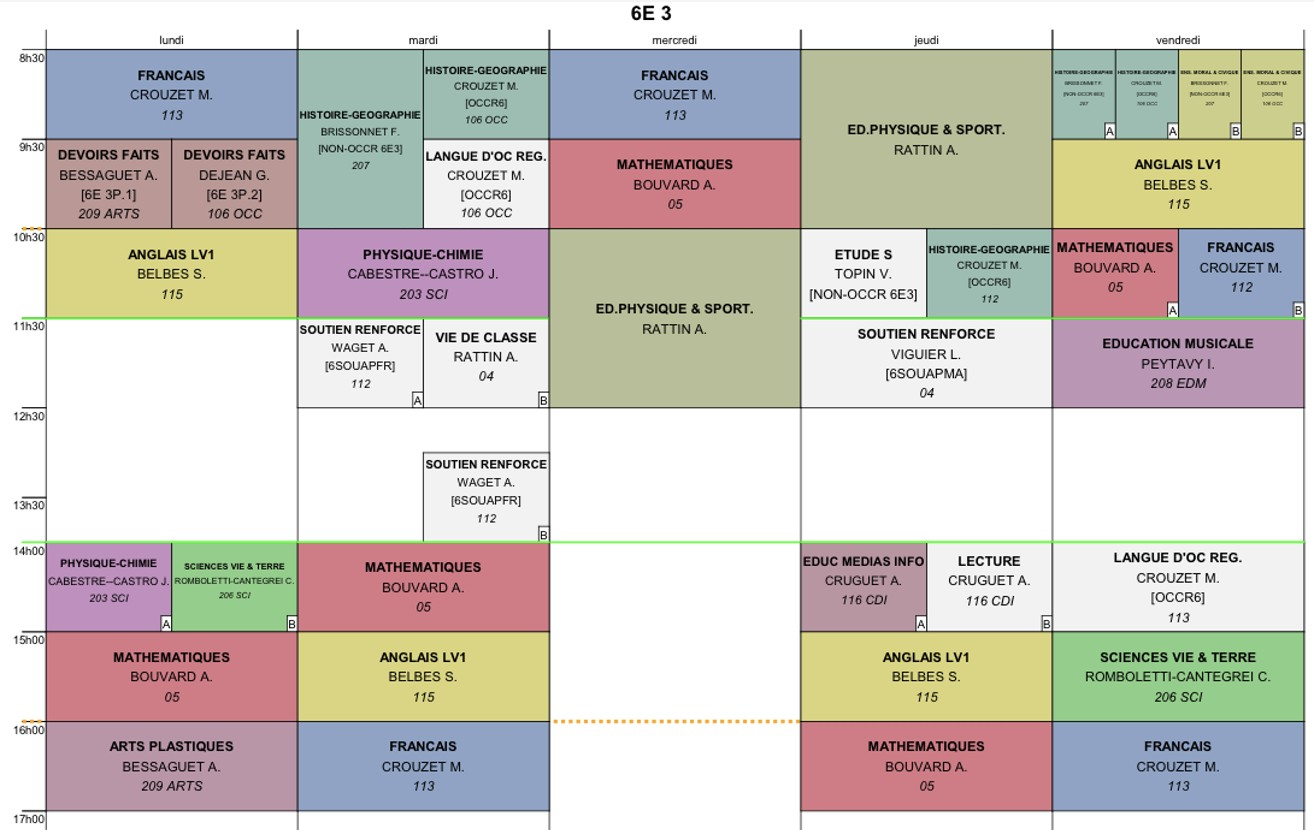
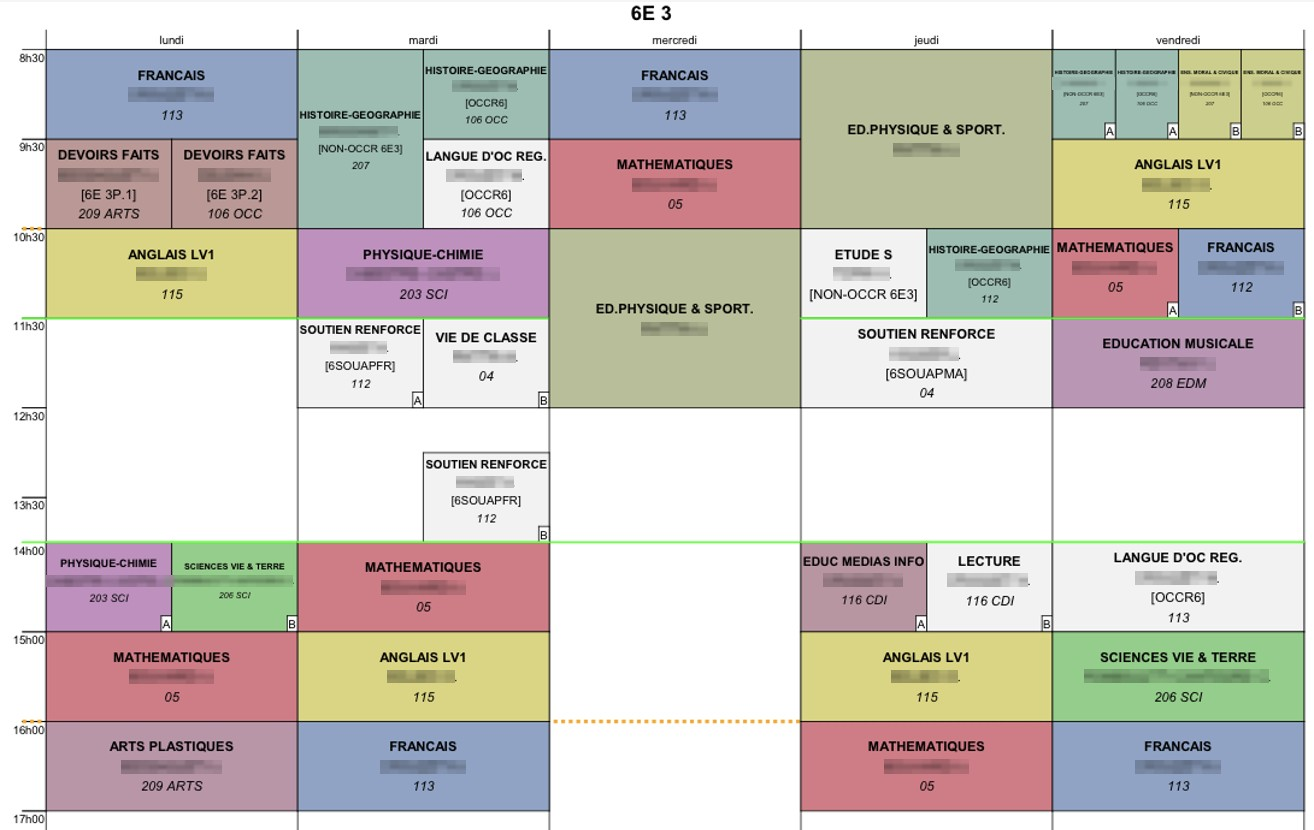
Mon entree en 6e : flouter les noms des professeurs sur l'emploi du temps
Les quarante noms du planning sont pixelises. Matieres, codes de groupe,
salles, horaires et reperes de semaine A / B restent lisibles.

Methode (script conserve dans le scratchpad, hors depot)
- L'OCR seul ne convenait pas : il ne lisait pas les quatre cases de
  60 px du vendredi matin, et rien ne garantissait qu'il avait tout vu.
- Le reperage est donc structurel : binarisation, retrait des traits du
  tableau, regroupement des caracteres en lignes puis des lignes en
  cases. Dans une case Pronote, la 2e ligne est toujours le professeur.
- L'OCR ne sert plus qu'a confirmer, ligne par ligne, laquelle ressemble
  a « NOM I. ».
- Les quatre cases du vendredi 8h30 sont traitees par coordonnees : la
  detection automatique y designait le code de groupe au lieu du
  professeur.
- La pixelisation est irreversible, contrairement a un flou leger.

Le texte alternatif et la legende precisent que les noms sont masques
sur cette version en ligne.

Claude-Session: https://claude.ai/code/session_01Abn6zVhHPXvTaUa6iAmTfD

diff --git a/prof-principal-6e.html b/prof-principal-6e.html
@@ -331,8 +331,8 @@
 
               <!-- MODIFIER CHAQUE ANNEE : remplacez l'image dans assets/college/ -->
               <figure class="diapo">
-                <img src="assets/college/emploi-du-temps-6e3.jpg" alt="Emploi du temps de la classe de 6e 3 : les cinq jours de la semaine en colonnes, les créneaux horaires en lignes, chaque case indiquant la matière, le professeur et la salle" width="1314" height="830" loading="lazy">
-                <figcaption>L'emploi du temps de la classe de <strong>6<sup>e</sup> 3</strong>.</figcaption>
+                <img src="assets/college/emploi-du-temps-6e3.jpg" alt="Emploi du temps de la classe de 6e 3 : les cinq jours de la semaine en colonnes, les créneaux horaires en lignes, chaque case indiquant la matière et la salle. Les noms des professeurs sont masqués." width="1314" height="830" loading="lazy">
+                <figcaption>L'emploi du temps de la classe de <strong>6<sup>e</sup> 3</strong>. Les noms des professeurs sont masqués ici ; ils apparaissent sur Pronote.</figcaption>
               </figure>
 
               <h4>Quelques créneaux particuliers</h4>
